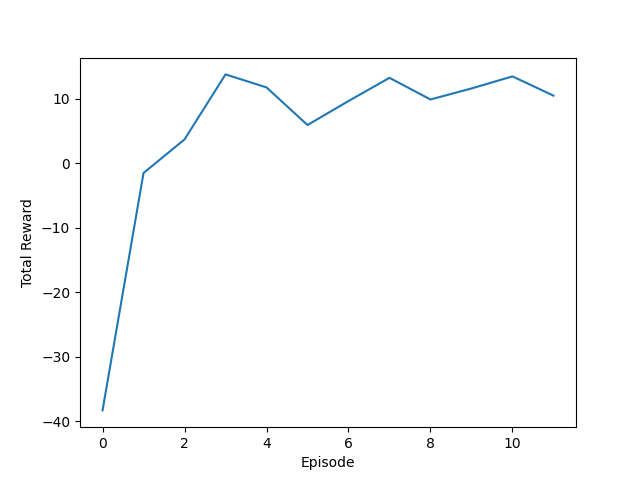
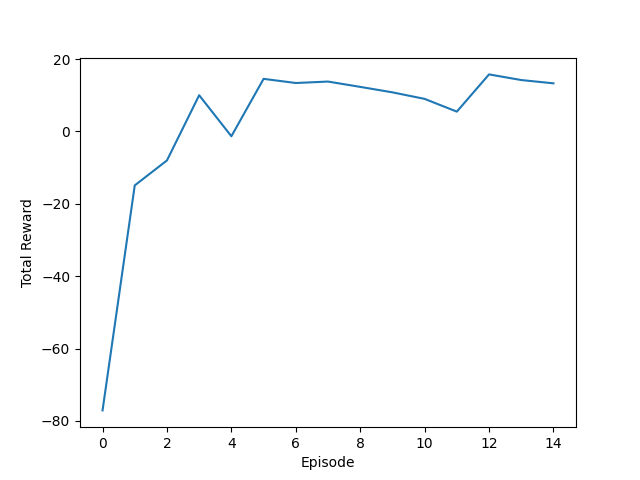
changed structure and tested outpu
added a seperation between dec-pomdp to pomdp and a convertion between them, made the DRQN model work on the regular pomdp structure and tested it converges to optimal solution (see results)

diff --git a/model/DRQN.py b/model/DRQN.py
@@ -7,42 +7,15 @@ import argparse
 import numpy as np
 import random
 from tqdm import tqdm
-from envs.multiagentenv import MultiAgentEnv
+from envs.decpomdp2pomdp import DecPOMDPWrapper
 
 tf.keras.backend.set_floatx('float64')
 
-
-ACTION2ACIONS = {
-    0: [0, 0],
-    1: [1, 0],
-    2: [2, 0],
-    3: [0, 1],
-    4: [1, 1],
-    5: [2, 1],
-    6: [0, 2],
-    7: [1, 2],
-    8: [2, 2]
-}
-
-
-ACTIONS2ACTION = {
-    (0, 0): 0,
-    (1, 0): 1,
-    (2, 0): 2,
-    (0, 1): 3,
-    (1, 1): 4,
-    (2, 1): 5,
-    (0, 2): 6,
-    (1, 2): 7,
-    (2, 2): 8
-}
-
-
 parser = argparse.ArgumentParser()
 parser.add_argument('--gamma', type=float, default=0.95)
-parser.add_argument('--lr', type=float, default=5e-3)
-parser.add_argument('--batch_size', type=int, default=32)
-parser.add_argument('--time_steps', type=int, default=30)
+parser.add_argument('--lr', type=float, default=4e-4)
+parser.add_argument('--batch_size', type=int, default=64)
+parser.add_argument('--time_steps', type=int, default=4)
 parser.add_argument('--eps', type=float, default=1.0)
 parser.add_argument('--eps_decay', type=float, default=0.9995)
 parser.add_argument('--eps_min', type=float, default=0.01)
@@ -56,15 +29,15 @@ class ActionStateModel:
         self.action_dim = aciton_dim
         self.epsilon = args.eps
 
-        self.opt = RMSprop(args.lr)
+        self.opt = Adam(args.lr)
         self.compute_loss = tf.keras.losses.MeanSquaredError()
         self.model = self.create_model()
 
     def create_model(self):
         return tf.keras.Sequential([
             Input((args.time_steps, self.state_dim)),
-            LSTM(32),
-            Dense(16, activation='relu'),
+            LSTM(64),
+            Dense(64, activation='relu'),
             Dense(self.action_dim)
         ])
 
@@ -93,10 +66,10 @@ class ActionStateModel:
 
 
 class Agent:
-    def __init__(self, env: MultiAgentEnv, N=15):
-        self.env: MultiAgentEnv = env
-        self.state_dim = env.get_obs_size()**self.env.n_agents
-        self.action_dim = self.env.get_total_actions() ** self.env.n_agents
+    def __init__(self, env: DecPOMDPWrapper, N=15):
+        self.env: DecPOMDPWrapper = env
+        self.state_dim = env.observation_space.n
+        self.action_dim = self.env.action_space.n
 
         self.states = np.zeros([args.time_steps, self.state_dim])
 
@@ -139,16 +112,13 @@ class Agent:
 
                 done, total_reward = False, 0
                 self.states = np.zeros([args.time_steps, self.state_dim])
-                o = self.env.reset()[0][0].flatten()
-                self.update_states(o)
+                self.update_states(self.env.reset())
                 while not done:
                     action = self.model.get_action(self.states)
-                    actions = self.action2actions(action)
-                    reward, done, _ = self.env.step(actions)
-                    next_state = self.env.get_obs()[0].flatten()
+                    next_obs, reward, done, _, _ = self.env.step(action)
 
                     prev_states = self.states
-                    self.update_states(next_state)
+                    self.update_states(next_obs)
                     self.buffer.put(prev_states, action,
                                     reward*0.01, self.states, done)
                     total_reward += reward
@@ -164,26 +134,23 @@ class Agent:
 
 
     def test(self, max_episodes=100):
+
         total_rewards = []
         epsilon = self.model.epsilon
         self.model.epsilon = 0
         for ep in range(max_episodes):
             done, total_reward = False, 0
             self.states = np.zeros([args.time_steps, self.state_dim])
-            o = self.env.reset()[0][0].flatten()
-            self.update_states(o)
+            self.update_states(self.env.reset())
             while not done:
                 action = self.model.get_action(self.states)
-                actions = self.action2actions(action)
-                reward, done, _ = self.env.step(actions)
-                next_state = self.env.get_obs()[0].flatten()
+                next_obs, reward, done, _, _ = self.env.step(action)
 
                 prev_states = self.states
-                self.update_states(next_state)
-                self.buffer.put(prev_states, action, reward *
-                                0.01, self.states, done)
-
+                self.update_states(next_obs)
+                self.buffer.put(prev_states, action, reward*0.01, self.states, done)
                 total_reward += reward
+
             total_rewards.append(total_reward)
 
         print('Test Average Reward: {}'.format(np.mean(total_rewards)))
@@ -191,20 +158,13 @@ class Agent:
         return np.mean(total_rewards)
 
     def catch_up(self):
+
         if self.n == self.N:
             self.n = 0
             self.target_update()
             print("Catching up...")
         else:
             self.n += 1
-
-    def action2actions(self, action):
-
-        return ACTION2ACIONS[action]
-
-    def actions2action(self, actions):
-        return ACTIONS2ACTION[tuple(actions)]
-
 
     def plot_data(self, data):
             plt.xlabel('Episode')

diff --git a/envs/decpomdp2pomdp.py b/envs/decpomdp2pomdp.py
@@ -1,0 +1,37 @@
+from dec_envs.multiagentenv import MultiAgentEnv
+from gym import Env
+from gym.spaces import Discrete
+import numpy as np
+
+
+class DecPOMDPWrapper(Env):
+    def __init__(self, env: MultiAgentEnv, action2actions, actions2action):
+        self.env = env
+        self.action_space:Discrete = Discrete(n=self.env.get_total_actions()**self.env.n_agents)
+        self.observation_space:Discrete = Discrete(n=self.env.get_obs_size()**self.env.n_agents)
+        self.action2actions = action2actions
+        self.actions2action = actions2action
+
+    def step(self, action):
+        
+        actions = self.action2actions[action]
+        reward, done, _ = self.env.step(actions)
+        next_obs = self.env.get_obs()[0].flatten()
+        return next_obs, reward, done, {}, {}
+
+    def reset(self):
+        o, _ = self.env.reset()
+        return o[0].flatten()
+
+    def render(self, mode="human"):
+        return self.env.render(mode)
+
+    def close(self):
+        return self.env.close()
+
+    def seed(self, seed=None):
+        return self.env.seed(seed)
+
+    def get_env_info(self):
+        return self.env.get_env_info()
+    

diff --git a/envs/tiger.py b/envs/tiger.py
@@ -1,0 +1,35 @@
+from dec_envs.dec_tiger import DecTiger
+from envs.decpomdp2pomdp import DecPOMDPWrapper
+
+
+ACTION2ACIONS = {
+    0: [0, 0],
+    1: [1, 0],
+    2: [2, 0],
+    3: [0, 1],
+    4: [1, 1],
+    5: [2, 1],
+    6: [0, 2],
+    7: [1, 2],
+    8: [2, 2]
+}
+
+ACTIONS2ACTION = {
+    (0, 0): 0,
+    (1, 0): 1,
+    (2, 0): 2,
+    (0, 1): 3,
+    (1, 1): 4,
+    (2, 1): 5,
+    (0, 2): 6,
+    (1, 2): 7,
+    (2, 2): 8
+}
+
+
+class Tiger(DecPOMDPWrapper):
+    
+    def __init__(self):
+
+        env = DecTiger(**{"env_args": {}})
+        super().__init__(env, ACTION2ACIONS, ACTIONS2ACTION)

diff --git a/dec_envs/dec_tiger.py b/dec_envs/dec_tiger.py
@@ -1,5 +1,5 @@
 from numpy.core.numeric import indices
-from envs.multiagentenv import MultiAgentEnv
+from dec_envs.multiagentenv import MultiAgentEnv
 from utils.dict2namedtuple import convert
 import numpy as np
 
@@ -24,7 +24,7 @@ class DecTiger(MultiAgentEnv):
             self.failure_obs_prob = getattr(args, "failure_obs_prob", 0.15)
 
         # Define the agents and actions
-        self.n_agents = 2
+        self.n_agents = getattr(args, "n_agents", 2)
         self.n_actions = 3 # Listen Left/Listen Right/Nothing
         self.episode_limit = getattr(args, "episode_limit", 4)
 

diff --git a/main.py b/main.py
@@ -1,10 +1,10 @@
-from envs.dec_tiger import DecTiger
+from envs.tiger import Tiger
 from model.DRQN import Agent
 
 def main():
-    env = DecTiger(**{"env_args": {}})
+    env = Tiger()
     agent = Agent(env)
-    agent.train(max_episodes=2000)
+    agent.train(max_episodes=1500)
 
 if __name__ == "__main__":
     main()
